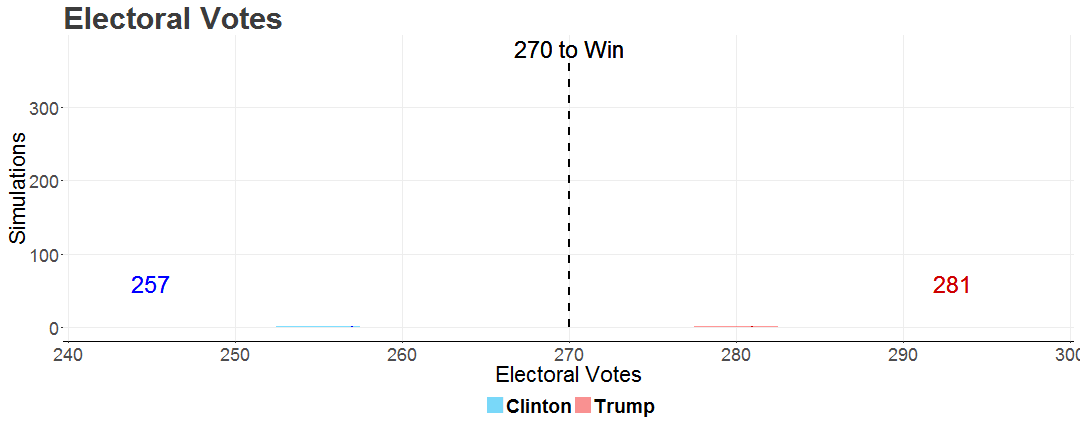
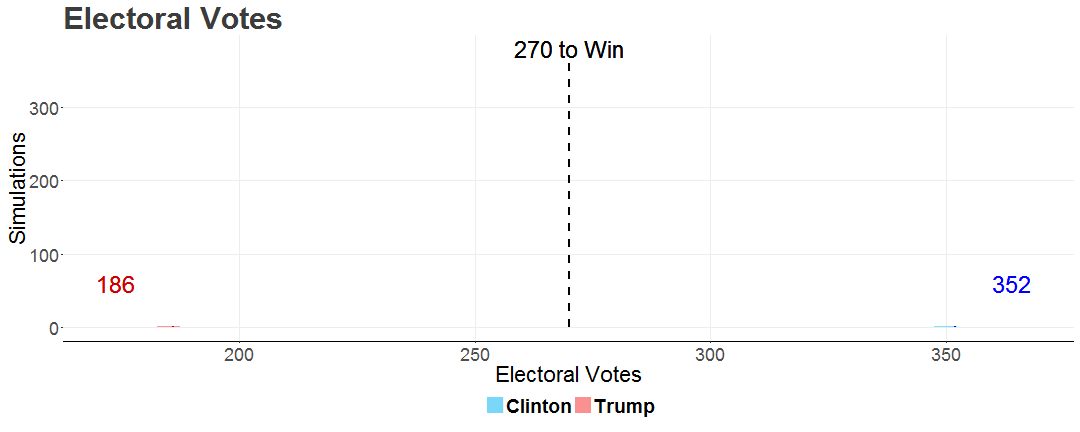
update

diff --git a/index.html b/index.html
@@ -266,7 +266,7 @@ table#t1 th {
           </div>
           <p></p>
       <div class="container" style="text-align: center;">
-        <h1><div class="alert alert-info" role="alert">Donald Trump has a 100% chance of being president</div></h1>    
+        <h1><div class="alert alert-info" role="alert">Hillary Clinton has a 100% chance of being president</div></h1>    
       </div>
         </div>
           <div style="text-align:right;">
@@ -285,7 +285,7 @@ table#t1 th {
 
       <div class="row">
         <div class="span12">
-          <p class="lead">Presidential elections are all about who can get to 270 electoral votes. After simulating the election ten-thousand times, the model predicts a <b>281-257 electoral win for Donald Trump</b>.</p>
+          <p class="lead">Presidential elections are all about who can get to 270 electoral votes. After simulating the election ten-thousand times, the model predicts a <b>352-186 electoral win for Hillary Clinton</b>.</p>
         </div>
       </div>
       
@@ -420,11 +420,11 @@ table#t1 th {
           </tr>
           <tr id='t1'>
             <th id='t1'>Clinton victory while losing at least 1 swing state <small>(FL, VA, NC, PA, OH)</small></th>
-            <th id='t1'><.1%</th>
+            <th id='t1'>100%</th>
           </tr>
           <tr id='t1'>
             <td id='t1'>Trump victory while losing at least 1 swing state <small>(FL, VA, NC, PA, OH)</small></td>
-            <td id='t1'>100%</td>
+            <td id='t1'><.1%</td>
           </tr>
           <tr id='t1'>
             <th id='t1'>Clinton wins all 5 swing states</th>
@@ -436,11 +436,11 @@ table#t1 th {
           </tr>
           <tr id='t1'>
             <th id='t1'>Clinton outperforms Obama 2012 <small>(>332 EV)</small></th>
-            <th id='t1'><.1%</th>
+            <th id='t1'>100%</th>
           </tr>
           <tr id='t1'>
             <td id='t1'>Trump outperforms Romney 2012 <small>(>206 EV)</small></td>
-            <td id='t1'>100%</td>
+            <td id='t1'><.1%</td>
           </tr>
           <tr id='t1'>
             <th id='t1'>Clinton blowout <small>(>380 EV)</small></th>
@@ -462,7 +462,7 @@ table#t1 th {
           <center>
             <h1>Current Forecasts</h1>
           </center>
-          <p class="lead">Here are all of the current forecasts for the general election. The model predicts that <b>Donald Trump will win 26 of 51</b> electoral contests (remember, DC gets 3 electoral votes). </p>
+          <p class="lead">Here are all of the current forecasts for the general election. The model predicts that <b>Hillary Clinton will win 25 of 51</b> electoral contests (remember, DC gets 3 electoral votes). </p>
         </div>
       </div>
       
